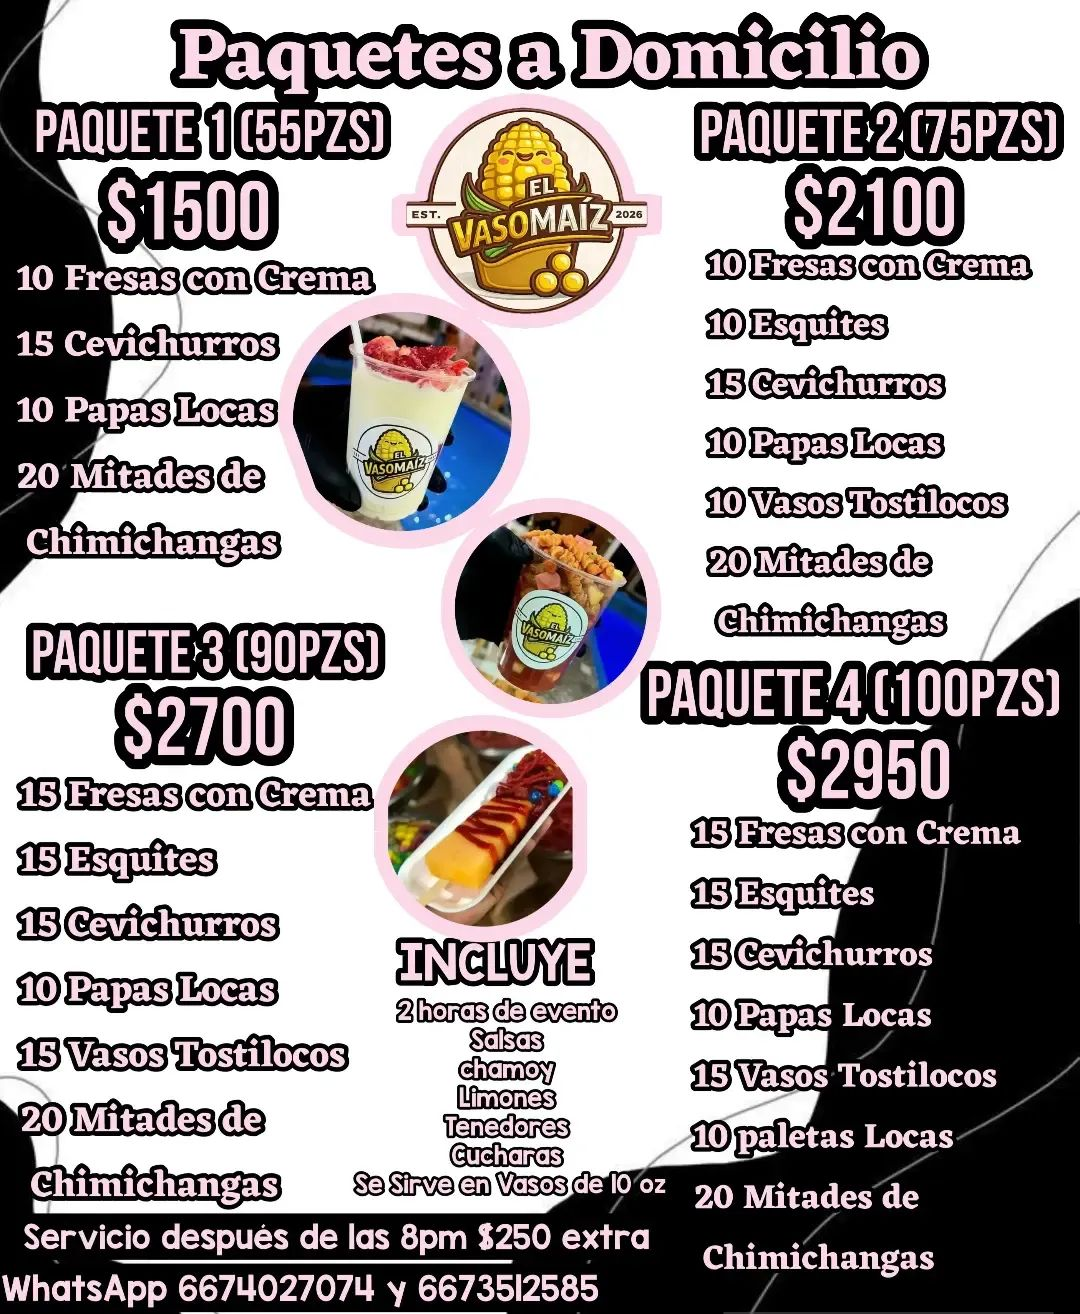
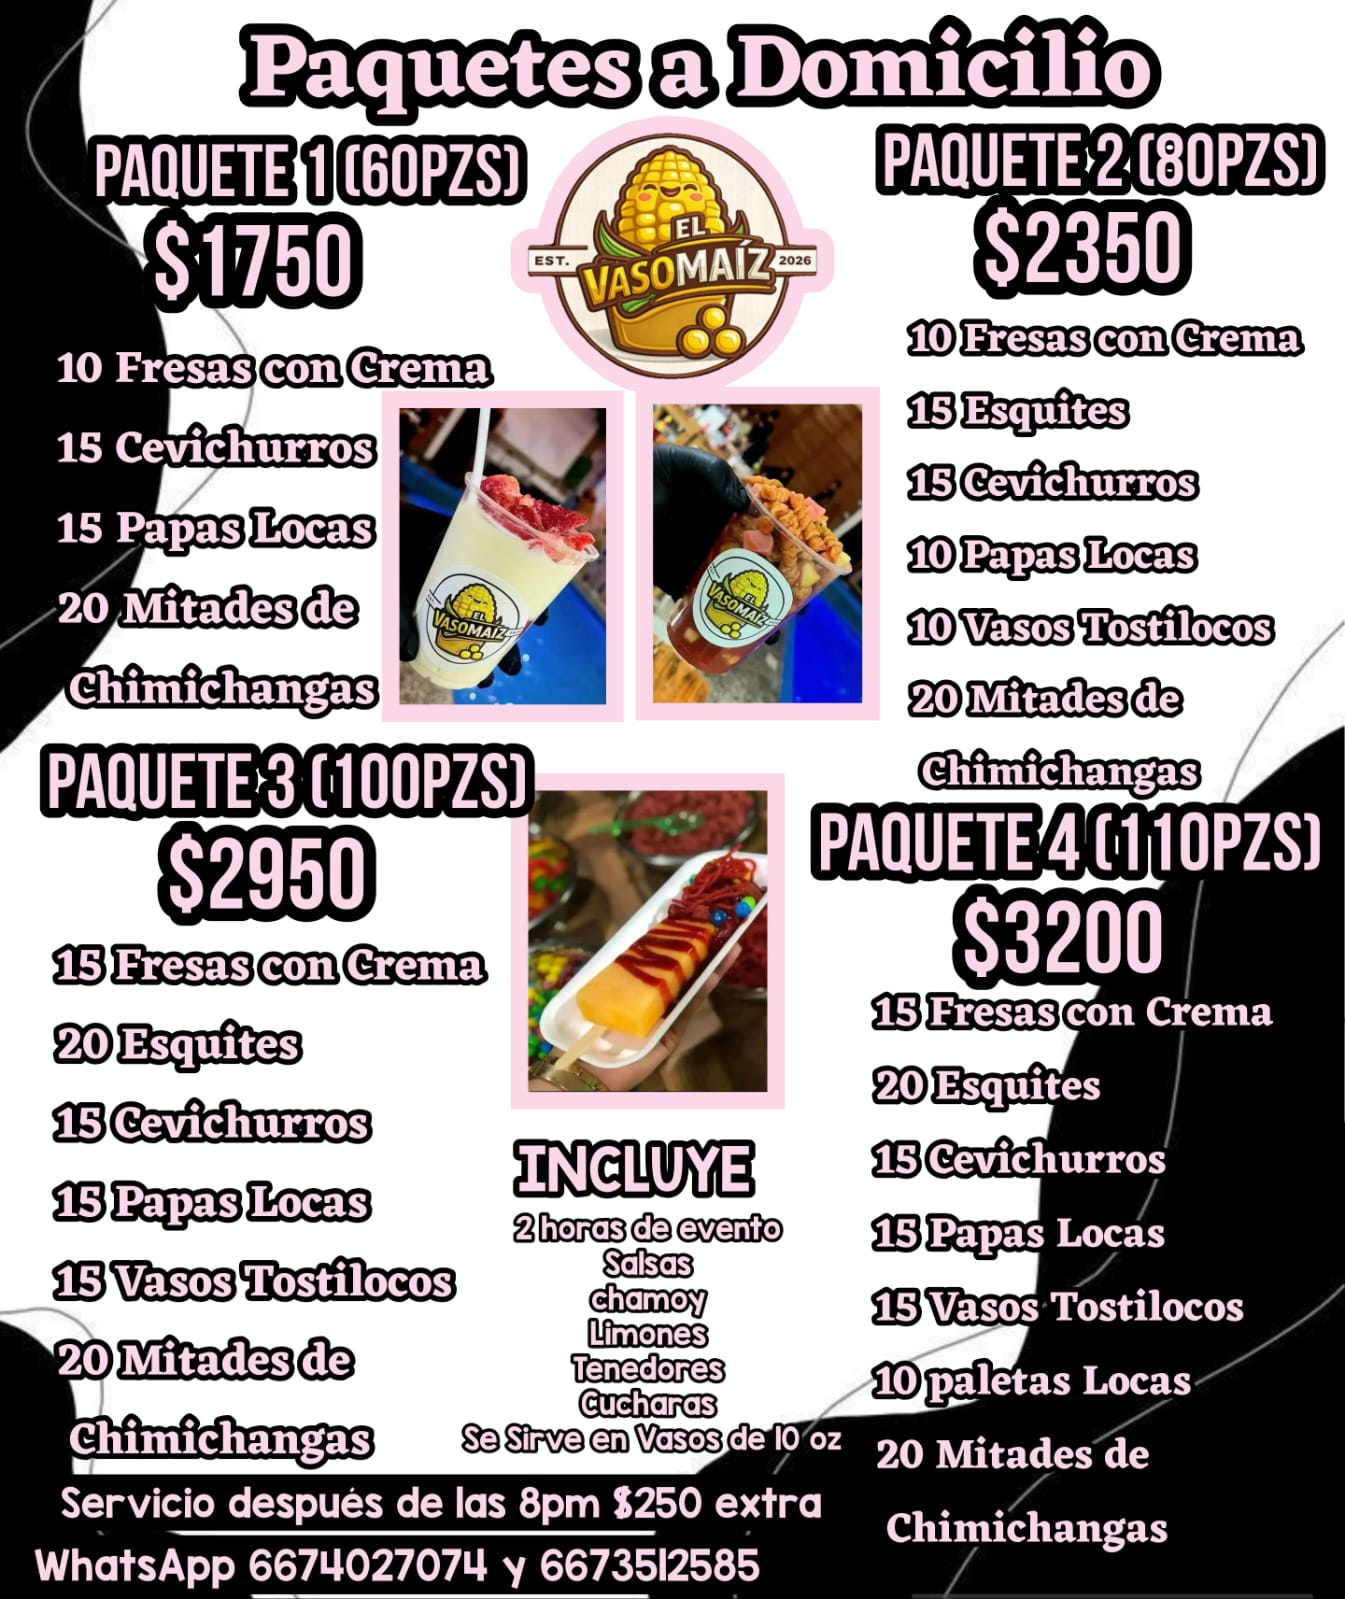
El Vaso Maíz: precios y piezas vigentes (lista de Diana del 31 oct)
Paquetes 1-5: 60/80/100/110/130 pz a $1,750/$2,350/$2,950/$3,200/$3,900;
Sabritas preparadas $1,900 con 7 toppings y vaso de 12oz. Se actualizan el
catálogo de DiMa, el contenido de cada paquete (personal y producción), la
página y los flyers que DiMa muestra.

diff --git a/pruebas/api.test.js b/pruebas/api.test.js
@@ -278,8 +278,8 @@ const ENCARG = { id: 'recCOLAB000000004', fields: { Nombre: 'Ana', Rol: 'Encarga
   ok(esquema.required.includes('hora_inicio') && esquema.required.includes('productos') && esquema.properties.productos.items.properties.clave.enum.includes('dv_paq50_antonella'), 'agenda: DiMa debe mandar hora y productos con claves del catálogo');
   ok(llamadasClaude[0].system.includes('a qué hora empieza'), 'agenda: DiMa pregunta la hora del evento');
   ok(evAgenda.Hora_Inicio === '18:00' && evAgenda.Horas_Servicio === 2 && JSON.parse(evAgenda.Productos).length === 2, 'agenda: guarda hora y productos (descarta claves desconocidas)');
-  ok(evAgenda.Piezas_Vaso_Maiz === 120 && evAgenda.Personal_Requerido === 4 && evAgenda.Resumen_Capacidad.includes('10 Mesa') && evAgenda.Resumen_Capacidad.includes('100 Silla Antonella'), 'agenda: 120 piezas en 2 h = 4 personas; 2 paquetes de 50 = 10 mesas y 100 sillas');
-  ok(correos.some(c => c.text.includes('a las 18:00') && c.text.includes('3 a 4 personas')), 'agenda: el correo a Diana trae la hora y el personal');
+  ok(evAgenda.Piezas_Vaso_Maiz === 130 && evAgenda.Personal_Requerido === 5 && evAgenda.Resumen_Capacidad.includes('10 Mesa') && evAgenda.Resumen_Capacidad.includes('100 Silla Antonella'), 'agenda: 130 piezas en 2 h = 5 personas; 2 paquetes de 50 = 10 mesas y 100 sillas');
+  ok(correos.some(c => c.text.includes('a las 18:00') && c.text.includes('4 a 5 personas')), 'agenda: el correo a Diana trae la hora y el personal');
 
   // ---------- Capacidad (api/_productos.js) ----------
   const prod = require(path.join(repo, 'api/_productos.js'));
@@ -481,7 +481,7 @@ const ENCARG = { id: 'recCOLAB000000004', fields: { Nombre: 'Ana', Rol: 'Encarga
   res = resMock();
   await dash({ method: 'POST', headers: auth(tokenAdmin), body: { eventoId: 'recEVENTO00000001', accion: 'autorizar', monto: '3000', items: 'Paquete 3', horaInicio: '17:30', horasServicio: '3', productos: [{ clave: 'vm_paquete_3', cantidad: 1, nota: null }] } }, res);
   const patchAgenda = llamadas.find(l => l.method === 'PATCH').body.records[0].fields;
-  ok(res.code === 200 && patchAgenda.Hora_Inicio === '17:30' && patchAgenda.Horas_Servicio === 3 && patchAgenda.Piezas_Vaso_Maiz === 90 && patchAgenda.Personal_Requerido === 2, 'admin autoriza con hora y productos: 90 piezas en 3 h = 2 personas');
+  ok(res.code === 200 && patchAgenda.Hora_Inicio === '17:30' && patchAgenda.Horas_Servicio === 3 && patchAgenda.Piezas_Vaso_Maiz === 100 && patchAgenda.Personal_Requerido === 3, 'admin autoriza con hora y productos: 100 piezas en 3 h = 3 personas');
   reset();
   respuestas = [ADMIN, { id: 'recEVENTO00000001', fields: { Folio_Evento: 'EVT-1' } }, {}];
   res = resMock();
@@ -1253,7 +1253,7 @@ const ENCARG = { id: 'recCOLAB000000004', fields: { Nombre: 'Ana', Rol: 'Encarga
   const marcaPrevio = llamadas.find(l => l.method === 'PATCH' && l.url.includes('tblzLAin65BZPP2c6'));
   ok(res.code === 200 && avisoPrevio && avisoPrevio.body.text.startsWith('Hola Lucía 👋 esta es la producción que necesitamos para el')
     && avisoPrevio.body.text.includes('• Fresas con crema: 15') && avisoPrevio.body.text.includes('• Raspados: 50') && avisoPrevio.body.text.includes('10 pieza(s) suelta(s) de EVT-PR1: fresas extra')
-    && avisoPrevio.body.text.includes('Total: 150 piezas') && avisoPrevio.body.text.includes('📌 Sin picante para niños') && avisoPrevio.body.text.includes('verifica el inventario y repórtame las necesidades de insumos'),
+    && avisoPrevio.body.text.includes('Total: 160 piezas') && avisoPrevio.body.text.includes('📌 Sin picante para niños') && avisoPrevio.body.text.includes('verifica el inventario y repórtame las necesidades de insumos'),
     'producción: dos días antes le llega al encargado la lista desglosada (paquetes, piezas sueltas con su nota) y las instrucciones');
   ok(botonesDe(avisoPrevio).join() === `pr:o:previo:${enDias(2)},pr:f:previo:${enDias(2)}` && !avisoPrevio.body.text.includes('$')
     && marcaPrevio && marcaPrevio.body.records[0].fields.Produccion_Avisos.startsWith(`previo:${CHICA_G.id} `),
@@ -1357,7 +1357,7 @@ const ENCARG = { id: 'recCOLAB000000004', fields: { Nombre: 'Ana', Rol: 'Encarga
   await dash({ method: 'POST', headers: auth(tokenAdmin), body: { eventoId: EV_PEND.id, accion: 'confirmar_cambio' } }, res);
   const aplicado = (llamadas.find(l => l.method === 'PATCH') || { body: { records: [{ fields: {} }] } }).body.records[0].fields;
   const avisoLider = telegram.find(t => t.metodo === 'sendMessage' && t.body.chat_id === '222');
-  ok(res.code === 200 && aplicado.Servicios_Solicitados === 'Paquete 5 y 50 raspados' && aplicado.Hora_Inicio === '19:00' && aplicado.Piezas_Vaso_Maiz === 170
+  ok(res.code === 200 && aplicado.Servicios_Solicitados === 'Paquete 5 y 50 raspados' && aplicado.Hora_Inicio === '19:00' && aplicado.Piezas_Vaso_Maiz === 180
     && JSON.parse(aplicado.Cambio_Cliente).estado === 'confirmado' && aplicado.Enterado_Por === '' && aplicado.Instrucciones_Equipo === 'Del cliente: Llegar por la puerta lateral',
     'cambio: al confirmar se aplica (servicios, hora, productos, indicaciones) y el equipo vuelve a confirmar "Enterado"');
   ok(avisoLider && avisoLider.body.text.startsWith('🔄 Cambió el pedido EVT-CM1') && avisoLider.body.text.includes('Paquete 5 y 50 raspados') && !avisoLider.body.text.includes('4650') && !avisoLider.body.text.includes('$')
@@ -1805,7 +1805,7 @@ const ENCARG = { id: 'recCOLAB000000004', fields: { Nombre: 'Ana', Rol: 'Encarga
     montoContratado: '$4,500', anticipo: '1000', formaAnticipo: 'Transferencia' } }, res);
   const evCap = llamadas.find(l => l.method === 'POST' && l.url.includes('tblzLAin65BZPP2c6')).body.records[0].fields;
   const antCap = llamadas.find(l => l.method === 'POST' && l.url.includes('tblb8ADFukpm6nRZV'));
-  ok(res.code === 200 && evCap.Autorizacion_Diana === 'SI' && evCap.Monto_Estimado_IA === 4500 && evCap.Checklist_Items === 'Paquete 3\nRaspados' && evCap.Piezas_Vaso_Maiz === 90
+  ok(res.code === 200 && evCap.Autorizacion_Diana === 'SI' && evCap.Monto_Estimado_IA === 4500 && evCap.Checklist_Items === 'Paquete 3\nRaspados' && evCap.Piezas_Vaso_Maiz === 100
     && evCap.Cliente[0] === 'recCLIENTENUEVO01' && res.body.clienteNuevo === true,
     'capturar: la gerente captura un evento de El Vaso Maíz ya autorizado, con checklist y producción');
   ok(antCap && antCap.body.records[0].fields.Monto === 1000 && antCap.body.records[0].fields.Recibido_Por === 'Diana' && antCap.body.records[0].fields.Forma === 'Transferencia'

diff --git a/api/_productos.js b/api/_productos.js
@@ -96,11 +96,11 @@ function mesas(personas, silla, mantel, conCubiertos) {
 
 const PRODUCTOS = {
   // ---------- El Vaso Maíz (piezas a preparar) ----------
-  vm_paquete_1: { nombre: 'Paquete 1 de El Vaso Maíz (55 pz)', negocio: VM, piezas: 55, contenido: { 'Fresas con crema': 10, 'Cevichurros': 15, 'Papas locas': 10, 'Mitades de chimichanga': 20 } },
-  vm_paquete_2: { nombre: 'Paquete 2 de El Vaso Maíz (75 pz)', negocio: VM, piezas: 75, contenido: { 'Fresas con crema': 10, 'Esquites': 10, 'Cevichurros': 15, 'Papas locas': 10, 'Vasos Tostilocos': 10, 'Mitades de chimichanga': 20 } },
-  vm_paquete_3: { nombre: 'Paquete 3 de El Vaso Maíz (90 pz)', negocio: VM, piezas: 90, contenido: { 'Fresas con crema': 15, 'Esquites': 15, 'Cevichurros': 15, 'Papas locas': 10, 'Vasos Tostilocos': 15, 'Mitades de chimichanga': 20 } },
-  vm_paquete_4: { nombre: 'Paquete 4 de El Vaso Maíz (100 pz)', negocio: VM, piezas: 100, contenido: { 'Fresas con crema': 15, 'Esquites': 15, 'Cevichurros': 15, 'Papas locas': 10, 'Vasos Tostilocos': 15, 'Paletas locas': 10, 'Mitades de chimichanga': 20 } },
-  vm_paquete_5: { nombre: 'Paquete 5 de El Vaso Maíz (120 pz)', negocio: VM, piezas: 120, contenido: { 'Fresas con crema': 20, 'Esquites': 20, 'Cevichurros': 20, 'Papas locas': 15, 'Vasos Tostilocos': 15, 'Paletas locas': 10, 'Mitades de chimichanga': 20 } },
+  vm_paquete_1: { nombre: 'Paquete 1 de El Vaso Maíz (60 pz)', negocio: VM, piezas: 60, contenido: { 'Fresas con crema': 10, 'Cevichurros': 15, 'Papas locas': 15, 'Mitades de chimichanga': 20 } },
+  vm_paquete_2: { nombre: 'Paquete 2 de El Vaso Maíz (80 pz)', negocio: VM, piezas: 80, contenido: { 'Fresas con crema': 10, 'Esquites': 15, 'Cevichurros': 15, 'Papas locas': 10, 'Vasos Tostilocos': 10, 'Mitades de chimichanga': 20 } },
+  vm_paquete_3: { nombre: 'Paquete 3 de El Vaso Maíz (100 pz)', negocio: VM, piezas: 100, contenido: { 'Fresas con crema': 15, 'Esquites': 20, 'Cevichurros': 15, 'Papas locas': 15, 'Vasos Tostilocos': 15, 'Mitades de chimichanga': 20 } },
+  vm_paquete_4: { nombre: 'Paquete 4 de El Vaso Maíz (110 pz)', negocio: VM, piezas: 110, contenido: { 'Fresas con crema': 15, 'Esquites': 20, 'Cevichurros': 15, 'Papas locas': 15, 'Vasos Tostilocos': 15, 'Paletas locas': 10, 'Mitades de chimichanga': 20 } },
+  vm_paquete_5: { nombre: 'Paquete 5 de El Vaso Maíz (130 pz)', negocio: VM, piezas: 130, contenido: { 'Fresas con crema': 20, 'Esquites': 20, 'Cevichurros': 20, 'Papas locas': 20, 'Vasos Tostilocos': 20, 'Paletas locas': 10, 'Mitades de chimichanga': 20 } },
   vm_sabritas_preparadas: { nombre: 'Sabritas preparadas (por pieza)', negocio: VM, piezas: 1, contenido: { 'Sabritas preparadas': 1 } },
   vm_raspado: { nombre: 'Raspado (por pieza)', negocio: VM, piezas: 1, contenido: { 'Raspados': 1 } },
   vm_elote_forrado: { nombre: 'Elote forrado (por pieza)', negocio: VM, piezas: 1, contenido: { 'Elotes forrados': 1 } },

diff --git a/api/_dima-catalogo.js b/api/_dima-catalogo.js
@@ -94,15 +94,15 @@ const FOTOS_PAQUETES_VASOMAIZ = [
 ];
 
 const CATALOGO = `CATÁLOGO REAL DE EL VASO MAÍZ (paquetes para eventos, por piezas — todos incluyen 2h de servicio + salsas/chamoy/limones/cubiertos/vaso 10oz; +$250 extra si el servicio continúa después de las 8pm):
-- Paquete 1 (55pz) = $1,500: 10 Fresas c/crema, 15 Cevichurros, 10 Papas Locas, 20 Mitades Chimichangas
-- Paquete 2 (75pz) = $2,100: 10 Fresas, 10 Esquites, 15 Cevichurros, 10 Papas Locas, 10 Vasos Tostilocos, 20 Mitades Chimichangas
-- Paquete 3 (90pz) = $2,700: 15 Fresas, 15 Esquites, 15 Cevichurros, 10 Papas Locas, 15 Vasos Tostilocos, 20 Mitades Chimichangas
-- Paquete 4 (100pz) = $2,950: 15 Fresas, 15 Esquites, 15 Cevichurros, 10 Papas Locas, 15 Vasos Tostilocos, 10 Paletas Locas, 20 Mitades Chimichangas
-- Paquete 5 (120pz) = $3,400: 20 Fresas, 20 Esquites, 20 Cevichurros, 15 Papas Locas, 15 Vasos Tostilocos, 10 Paletas Locas, 20 Mitades Chimichangas
+- Paquete 1 (60pz) = $1,750: 10 Fresas c/crema, 15 Cevichurros, 15 Papas Locas, 20 Mitades Chimichangas
+- Paquete 2 (80pz) = $2,350: 10 Fresas, 15 Esquites, 15 Cevichurros, 10 Papas Locas, 10 Vasos Tostilocos, 20 Mitades Chimichangas
+- Paquete 3 (100pz) = $2,950: 15 Fresas, 20 Esquites, 15 Cevichurros, 15 Papas Locas, 15 Vasos Tostilocos, 20 Mitades Chimichangas
+- Paquete 4 (110pz) = $3,200: 15 Fresas, 20 Esquites, 15 Cevichurros, 15 Papas Locas, 15 Vasos Tostilocos, 10 Paletas Locas, 20 Mitades Chimichangas
+- Paquete 5 (130pz) = $3,900: 20 Fresas, 20 Esquites, 20 Cevichurros, 20 Papas Locas, 20 Vasos Tostilocos, 10 Paletas Locas, 20 Mitades Chimichangas
 Anticipo fijo de $500 (sin importar el paquete). Los datos de pago (transferencia/depósito) se le mandan al cliente con la cotización formal, después de que la gerencia la confirma -- nunca los des en el chat.
 
 OTROS PRODUCTOS DE EL VASO MAÍZ (fuera de los 5 paquetes, se pueden agregar aparte o sustituir):
-- Sabritas Preparadas: 50 piezas = $1,850 (3 bases a elegir: Tostitos/Ruffles/Doritos/Chips verdes + 10 toppings)
+- Sabritas Preparadas: 50 piezas = $1,900 (3 bases a elegir entre Tostitos/Ruffles/Doritos/Chips verdes + 7 toppings a elegir entre churros, cacahuates, salchicha, pepino, jícama, rielito, gomitas, serpiente, aros de durazno, panditas, skwinkles, pulparindo, pica gomas, serpentina y manguitos; complementos: tajín, chamoy, salsa especial, soya, guacamaya, limón, clamato y servilletas; se sirve en vaso de 12oz)
 - Raspados: 50 = $1,250, 75 = $1,800, 100 = $2,300 (5 sabores a elegir)
 - Elote Forrado: 10 = $600, 20 = $1,100, 30 = elotes flaming y doritos (precio a confirmar con la gerencia)
 - Paquete Maruchan: 30 = $1,050, 50 = $1,700, 70 = $2,300 (incluye 2h servicio, limones, salsas, chamoy, servilletas, cubiertos, vaso 10oz)

diff --git a/index.html b/index.html
@@ -507,7 +507,7 @@
         <div>
           <h3>Snacks para eventos</h3>
           <p><b>El Vaso Maíz</b> monta su barra en tu evento y prepara todo al momento: fresas con crema, esquites, cevichurros, papas locas, tostilocos, raspados y más. Los paquetes incluyen 2 horas de servicio.</p>
-          <div class="etiquetas"><span>Paquetes de 55 a 120 piezas</span><span>Sabritas preparadas</span><span>Raspados</span><span>Elote forrado</span></div>
+          <div class="etiquetas"><span>Paquetes de 60 a 130 piezas</span><span>Sabritas preparadas</span><span>Raspados</span><span>Elote forrado</span></div>
           <div class="servicio-acc">
             <button type="button" class="btn btn-ghost" data-abrir-chat data-pregunta="Hola, quiero cotizar snacks de El Vaso Maíz para mi evento.">Cotizar snacks →</button>
             <a class="link-sutil" href="https://www.instagram.com/elvasomaiz?igsh=MWw1bjM5NXhkczU3Yg==" target="_blank" rel="noopener">Instagram de El Vaso Maíz</a>
@@ -594,9 +594,9 @@
       <article class="paq paq-texto" data-revelar>
         <div class="paq-cuerpo">
           <span class="paq-marca vm">El Vaso Maíz</span>
-          <h3>Paquete 1 · 55 piezas</h3>
-          <p>10 fresas con crema, 15 cevichurros, 10 papas locas y 20 mitades de chimichanga, con 2 horas de servicio, salsas, chamoy y limones. Hay paquetes de hasta 120 piezas.</p>
-          <div class="paq-precio">$1,500</div>
+          <h3>Paquete 1 · 60 piezas</h3>
+          <p>10 fresas con crema, 15 cevichurros, 15 papas locas y 20 mitades de chimichanga, con 2 horas de servicio, salsas, chamoy y limones. Hay paquetes de hasta 130 piezas.</p>
+          <div class="paq-precio">$1,750</div>
           <button type="button" class="btn btn-ghost" data-abrir-chat data-pregunta="Me interesan los paquetes de snacks de El Vaso Maíz.">Ver los 5 paquetes</button>
         </div>
       </article>
